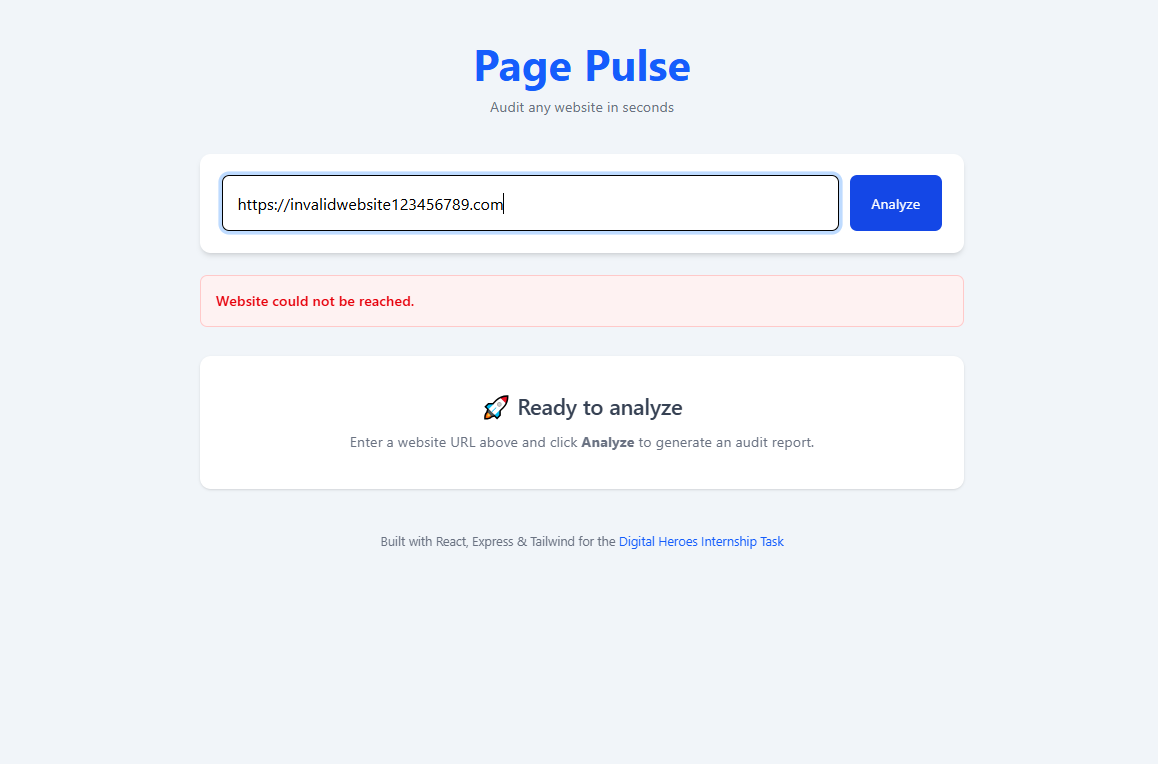
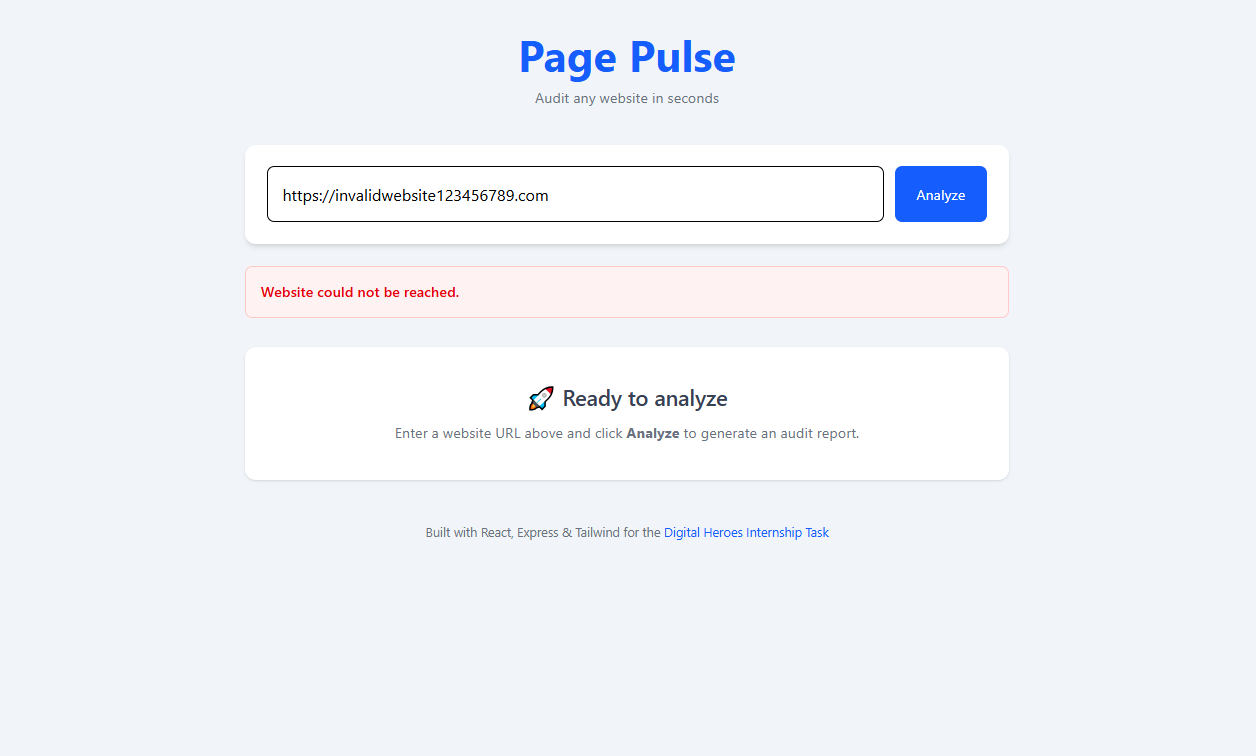
docs: update README with project details, features, installation instructions, and API documentation

diff --git a/README.md b/README.md
@@ -1,3 +1,200 @@
-# Page Pulse
+# 🚀 Page Pulse
 
-Built for Digital Heroes Training Task.
+![License](https://img.shields.io/badge/License-MIT-yellow)
+![Frontend](https://img.shields.io/badge/Frontend-Vercel-black?logo=vercel)
+![Backend](https://img.shields.io/badge/Backend-Render-46E3B7?logo=render)
+![React](https://img.shields.io/badge/React-61DAFB?logo=react&logoColor=white)
+![Node.js](https://img.shields.io/badge/Node.js-339933?logo=node.js&logoColor=white)
+![Express.js](https://img.shields.io/badge/Express.js-000000?logo=express&logoColor=white)
+
+**Page Pulse** is a modern full-stack website auditing tool built for the **Digital Heroes Internship Task**. It analyzes public webpages and provides essential SEO and content insights such as HTTP status, response time, page title, meta description, H1 count, missing ALT attributes, and approximate word count.
+
+## 🌐 Live Demo
+
+- **Frontend (Vercel):** <https://page-pulse-inky-eight.vercel.app/>
+- **Backend API (Render):** <https://page-pulse-v5sh.onrender.com>
+
+
+Below are a few screenshots of the application running in production.
+
+## 📸 Screenshots
+
+<h3>🏠 Home Page</h3>
+
+<p align="center">
+  <img src="home.png" alt="Home Page" width="850">
+</p>
+
+<h3>📊 Audit Result</h3>
+
+<p align="center">
+  <img src="result.png" alt="Audit Result" width="850">
+</p>
+
+<h3>⚠ Error Handling</h3>
+
+<p align="center">
+  <img src="error.png" alt="Error Handling" width="850">
+</p>
+
+---
+
+## ✨ Features
+
+- 🌍 Analyze any public website
+- 📡 HTTP Status Code
+- ⚡ Response Time
+- 📝 Page Title
+- 📄 Meta Description
+- 🔠 H1 Count
+- 🖼 Missing ALT Attributes Count
+- 📚 Approximate Word Count
+- 🚫 Handles invalid URLs gracefully
+- ⏱ Handles request timeouts
+- 📄 Detects non-HTML pages
+- 💻 Responsive user interface
+- 🎨 Clean and modern UI with Tailwind CSS
+
+---
+
+## 🛠 Tech Stack
+
+### Frontend
+- React
+- Vite
+- Tailwind CSS
+- Axios
+
+### Backend
+- Node.js
+- Express.js
+- Axios
+- Cheerio
+
+---
+
+## 📁 Project Structure
+
+```text
+page-pulse/
+├── backend/
+├── frontend/
+├── home.png
+├── result.png
+├── error.png
+├── LICENSE
+├── README.md
+└── .gitignore
+```
+
+---
+
+## 🚀 Installation
+
+Run the backend first, then start the frontend in a separate terminal.
+
+### Clone the repository
+
+```bash
+git clone https://github.com/MrBengaliHacker/page-pulse.git
+cd page-pulse
+```
+
+### Backend
+
+```bash
+cd backend
+npm install
+npm start
+```
+
+The backend runs at:
+
+```text
+http://localhost:3000
+```
+
+### Frontend
+
+Open a new terminal.
+
+```bash
+cd frontend
+npm install
+npm run dev
+```
+
+The frontend runs at:
+
+```text
+http://localhost:5173
+```
+
+---
+
+## 📌 API
+
+### Endpoint
+
+```http
+POST /api/audit
+```
+
+### Production URL
+
+```text
+https://page-pulse-v5sh.onrender.com/api/audit
+```
+
+### Request Body
+
+```json
+{
+  "url": "https://github.com"
+}
+```
+
+### Sample Response
+
+```json
+{
+  "status": 200,
+  "responseTime": "594 ms",
+  "title": "GitHub · Build and ship software on a single, collaborative platform",
+  "description": "GitHub is where developers build, ship, and maintain software.",
+  "h1Count": 1,
+  "missingAltCount": 3,
+  "wordCount": 2456
+}
+```
+
+---
+
+## ⚠ Error Handling
+
+The API returns meaningful error messages for common situations:
+
+- Invalid URL
+- Website could not be reached
+- Request timed out
+- Only HTML pages are supported
+- Website responded with an HTTP error (e.g. 403, 404)
+
+
+---
+
+## 👨💻 Author
+
+**Ritam Mondal**
+
+- GitHub: https://github.com/MrBengaliHacker
+
+---
+
+## 🙏 Acknowledgements
+
+This project was built as part of the **Digital Heroes Internship Task** to demonstrate full-stack web development skills using React, Express, Axios, and Cheerio.
+
+---
+
+⭐ If you found this project useful, consider giving the repository a star.
